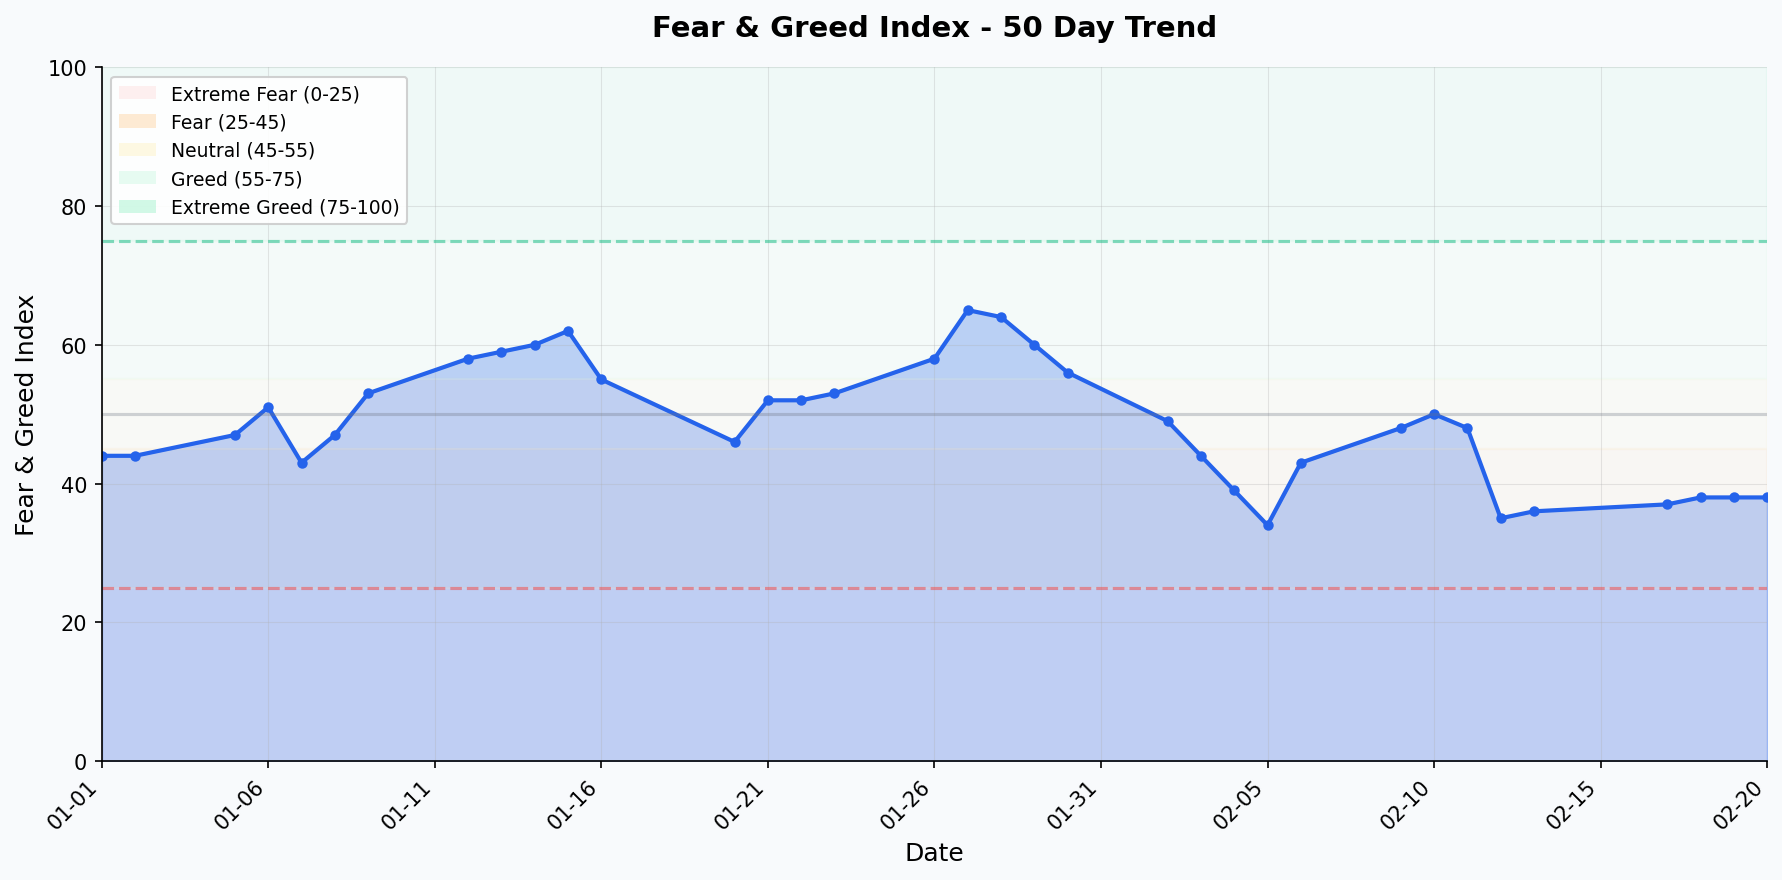
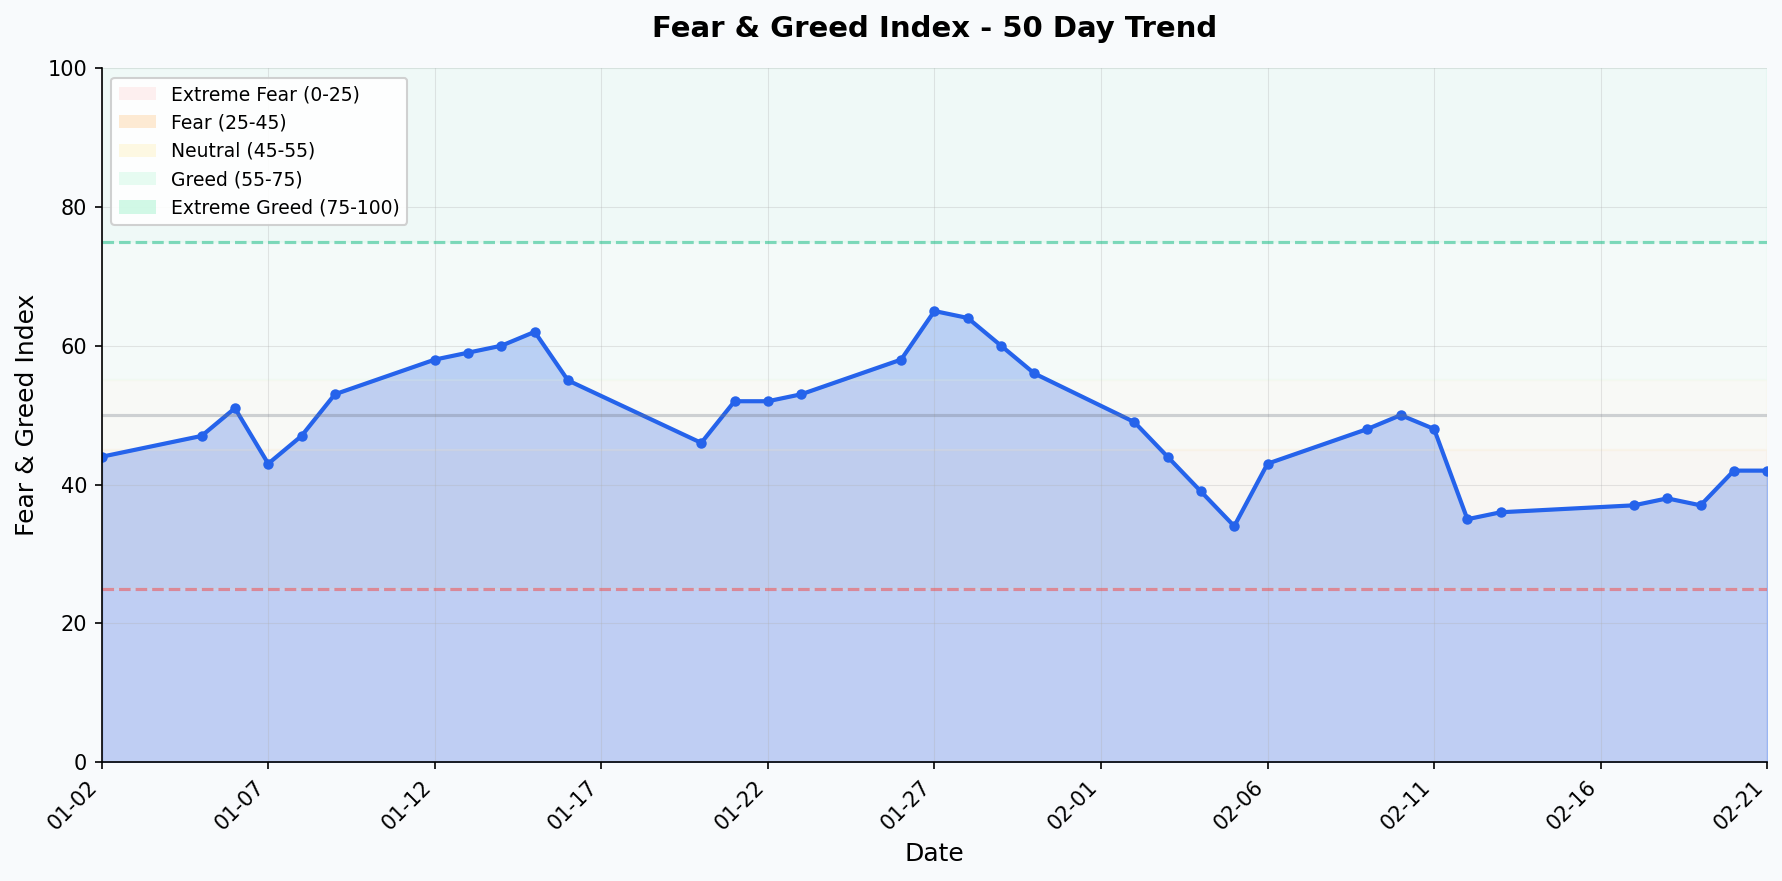
feat: 添加数据补充脚本，更新最新数据至2026-02-21

diff --git a/fill_missing_data.py b/fill_missing_data.py
@@ -1,0 +1,150 @@
+"""
+补充缺失的历史数据脚本
+功能：
+1. 分析缺失日期的模式
+2. 从CNN API获取缺失日期的数据
+3. 验证数据完整性
+"""
+import time
+from datetime import datetime, timedelta
+from src.database import FngDatabase
+from src.fetcher import FngFetcher
+
+
+def analyze_missing_dates(db: FngDatabase, days: int = 90):
+    """分析缺失日期的模式"""
+    today = datetime.now()
+    start_date = today - timedelta(days=days)
+    
+    records = db.get_records_by_range(
+        start_date.strftime('%Y-%m-%d'),
+        today.strftime('%Y-%m-%d')
+    )
+    
+    record_dates = set(r.date for r in records)
+    
+    missing_dates = []
+    missing_weekends = []
+    missing_weekdays = []
+    
+    current = start_date
+    while current <= today:
+        date_str = current.strftime('%Y-%m-%d')
+        if date_str not in record_dates:
+            missing_dates.append(date_str)
+            # 判断是否为周末
+            if current.weekday() >= 5:  # 5=周六, 6=周日
+                missing_weekends.append(date_str)
+            else:
+                missing_weekdays.append(date_str)
+        current += timedelta(days=1)
+    
+    return {
+        'total_missing': len(missing_dates),
+        'weekend_missing': len(missing_weekends),
+        'weekday_missing': len(missing_weekdays),
+        'weekend_dates': missing_weekends,
+        'weekday_dates': missing_weekdays,
+        'all_missing': missing_dates
+    }
+
+
+def fetch_missing_data(fetcher: FngFetcher, dates: list, batch_size: int = 7):
+    """
+    批量获取缺失日期的数据
+    CNN API一次可能返回多天数据，所以批量请求
+    """
+    if not dates:
+        return 0, "无缺失数据"
+    
+    total_inserted = 0
+    errors = []
+    
+    # 按日期排序
+    sorted_dates = sorted(dates)
+    
+    print(f"\n开始获取 {len(sorted_dates)} 个日期的数据...")
+    
+    # 批量请求：每次请求一个起始日期，API会返回该日期之后的数据
+    for i, date in enumerate(sorted_dates):
+        print(f"进度: {i+1}/{len(sorted_dates)} - 尝试获取 {date} 的数据", end='\r')
+        
+        try:
+            api_data = fetcher._fetch_from_api(date)
+            records = fetcher._parse_api_data(api_data)
+            
+            if records:
+                inserted = fetcher.db.insert_records(records)
+                total_inserted += inserted
+            
+            # 避免请求过快
+            time.sleep(1)
+            
+        except Exception as e:
+            errors.append(f"{date}: {str(e)}")
+    
+    print()  # 换行
+    
+    status = f"成功插入 {total_inserted} 条记录"
+    if errors:
+        status += f", {len(errors)} 个日期获取失败"
+    
+    return total_inserted, status
+
+
+def main():
+    print("=" * 60)
+    print("恐慌贪婪指数数据补充脚本")
+    print("=" * 60)
+    
+    db = FngDatabase()
+    fetcher = FngFetcher()
+    
+    # 1. 分析缺失数据
+    print("\n[1] 分析缺失数据...")
+    analysis = analyze_missing_dates(db, days=90)
+    
+    print(f"\n缺失数据统计:")
+    print(f"  总缺失天数: {analysis['total_missing']}")
+    print(f"  周末缺失: {analysis['weekend_missing']} (正常，股市休市)")
+    print(f"  工作日缺失: {analysis['weekday_missing']} (需要补充)")
+    
+    if analysis['weekday_missing'] > 0:
+        print(f"\n缺失的工作日:")
+        for date in analysis['weekday_dates'][:10]:
+            dt = datetime.strptime(date, '%Y-%m-%d')
+            weekday_names = ['周一', '周二', '周三', '周四', '周五', '周六', '周日']
+            print(f"  {date} ({weekday_names[dt.weekday()]})")
+        if analysis['weekday_missing'] > 10:
+            print(f"  ... 还有 {analysis['weekday_missing'] - 10} 个")
+    
+    # 2. 获取缺失的工作日数据
+    if analysis['weekday_missing'] > 0:
+        print(f"\n[2] 开始获取缺失的工作日数据...")
+        inserted, status = fetch_missing_data(fetcher, analysis['weekday_dates'])
+        print(f"\n结果: {status}")
+    else:
+        print("\n[2] 无需补充，工作日数据完整")
+    
+    # 3. 再次验证
+    print("\n[3] 验证数据完整性...")
+    analysis_after = analyze_missing_dates(db, days=90)
+    
+    print(f"\n验证结果:")
+    print(f"  补充前工作日缺失: {analysis['weekday_missing']}")
+    print(f"  补充后工作日缺失: {analysis_after['weekday_missing']}")
+    print(f"  改善: {analysis['weekday_missing'] - analysis_after['weekday_missing']} 条")
+    
+    # 4. 显示最新统计
+    stats = db.get_stats()
+    print(f"\n数据库统计:")
+    print(f"  总记录数: {stats.get('total_records', 0)}")
+    print(f"  最新日期: {stats.get('latest_date', '无')}")
+    
+    print("\n" + "=" * 60)
+    print("数据补充完成")
+    print("=" * 60)
+
+
+if __name__ == "__main__":
+    main()

diff --git a/README.md b/README.md
@@ -1,7 +1,7 @@
 # 恐慌贪婪指数追踪器
 
-[![Last Update](https://img.shields.io/static/v1?label=Last+Update&message=2026-02-20&color=blue)]()
-[![Records](https://img.shields.io/static/v1?label=Records&message=3818&color=green)]()
+[![Last Update](https://img.shields.io/static/v1?label=Last+Update&message=2026-02-21&color=blue)]()
+[![Records](https://img.shields.io/static/v1?label=Records&message=3819&color=green)]()
 [![Status](https://img.shields.io/static/v1?label=Status&message=Fear&color=orange)]()
 
 自动追踪CNN恐慌贪婪指数，支持定时更新、可视化和历史版本管理。
@@ -37,8 +37,8 @@
 
 | 指标 | 数值 |
 |------|------|
-| 最新日期 | 2026-02-20 |
-| **最新指数** | **38** |
+| 最新日期 | 2026-02-21 |
+| **最新指数** | **42** |
 | 情绪状态 | 恐惧 (Fear) |
 | 7日均值 | 48.51 |
 | 30日均值 | 48.51 |
@@ -56,12 +56,12 @@
 | 情绪状态 | 天数 | 占比 |
 |----------|------|------|
 | 极度恐惧 (0-25) | 582 | 15.2% |
-| 恐惧 (25-45) | 971 | 25.4% |
+| 恐惧 (25-45) | 972 | 25.5% |
 | 中性 (45-55) | 648 | 17.0% |
 | 贪婪 (55-75) | 1217 | 31.9% |
 | 极度贪婪 (75-100) | 400 | 10.5% |
 
-**数据总量**: 3818 条记录
+**数据总量**: 3819 条记录
 
 
 ## 趋势图表
@@ -152,8 +152,8 @@ Fear_and_Greed_Index/
 
 ## 更新记录
 
-- 最近更新: 2026-02-20 12:28:37
-- 数据范围: - 至 2026-02-20
+- 最近更新: 2026-02-21 22:53:13
+- 数据范围: - 至 2026-02-21
 
 ## 许可证
 
